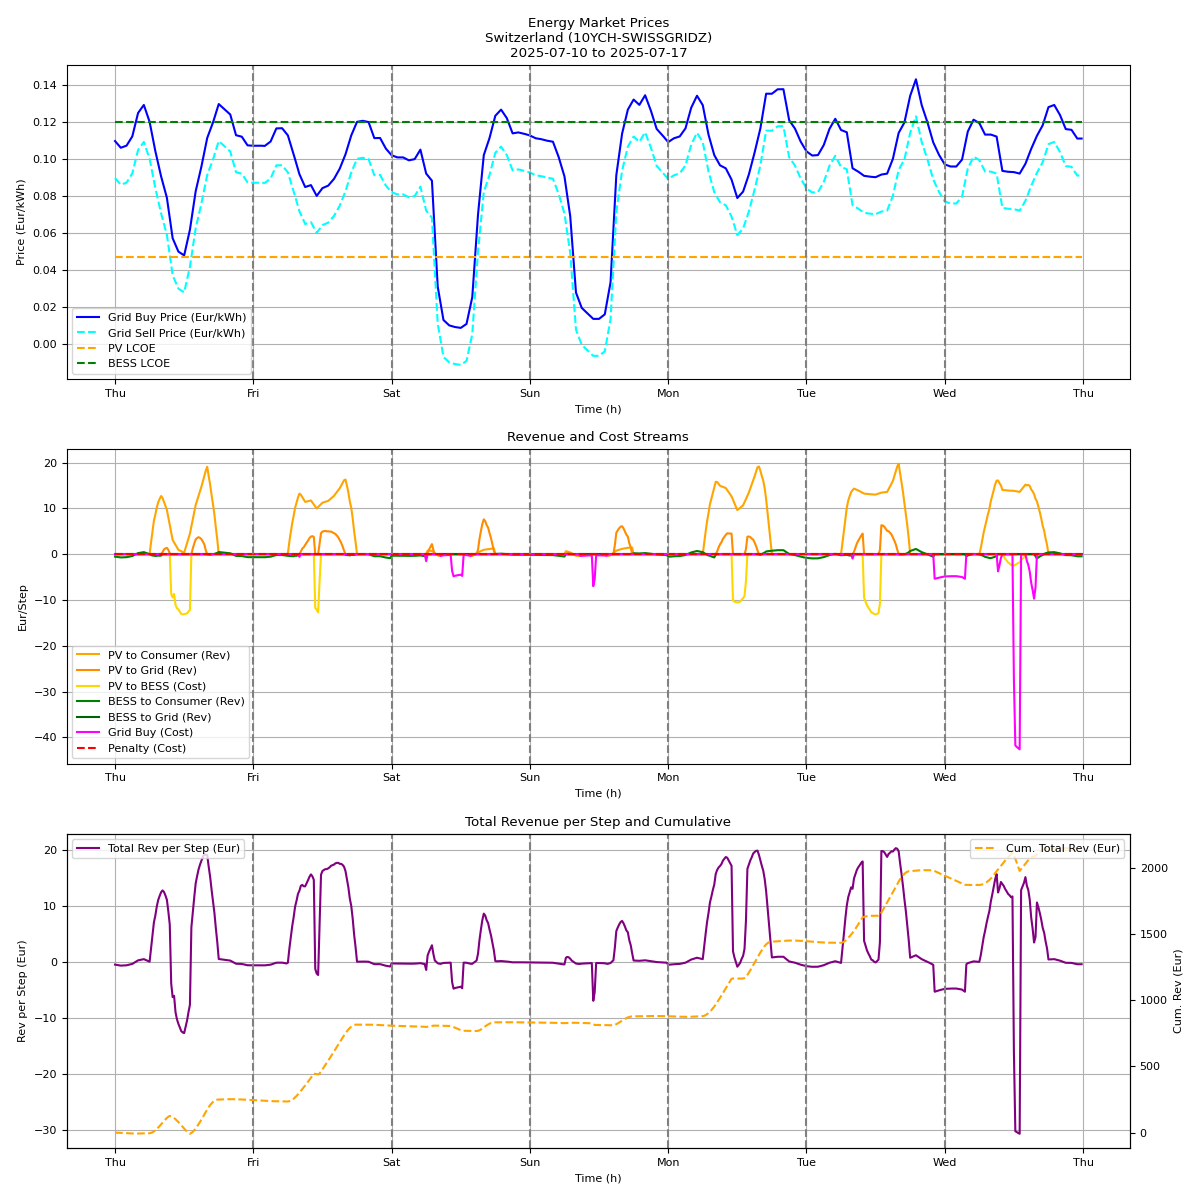
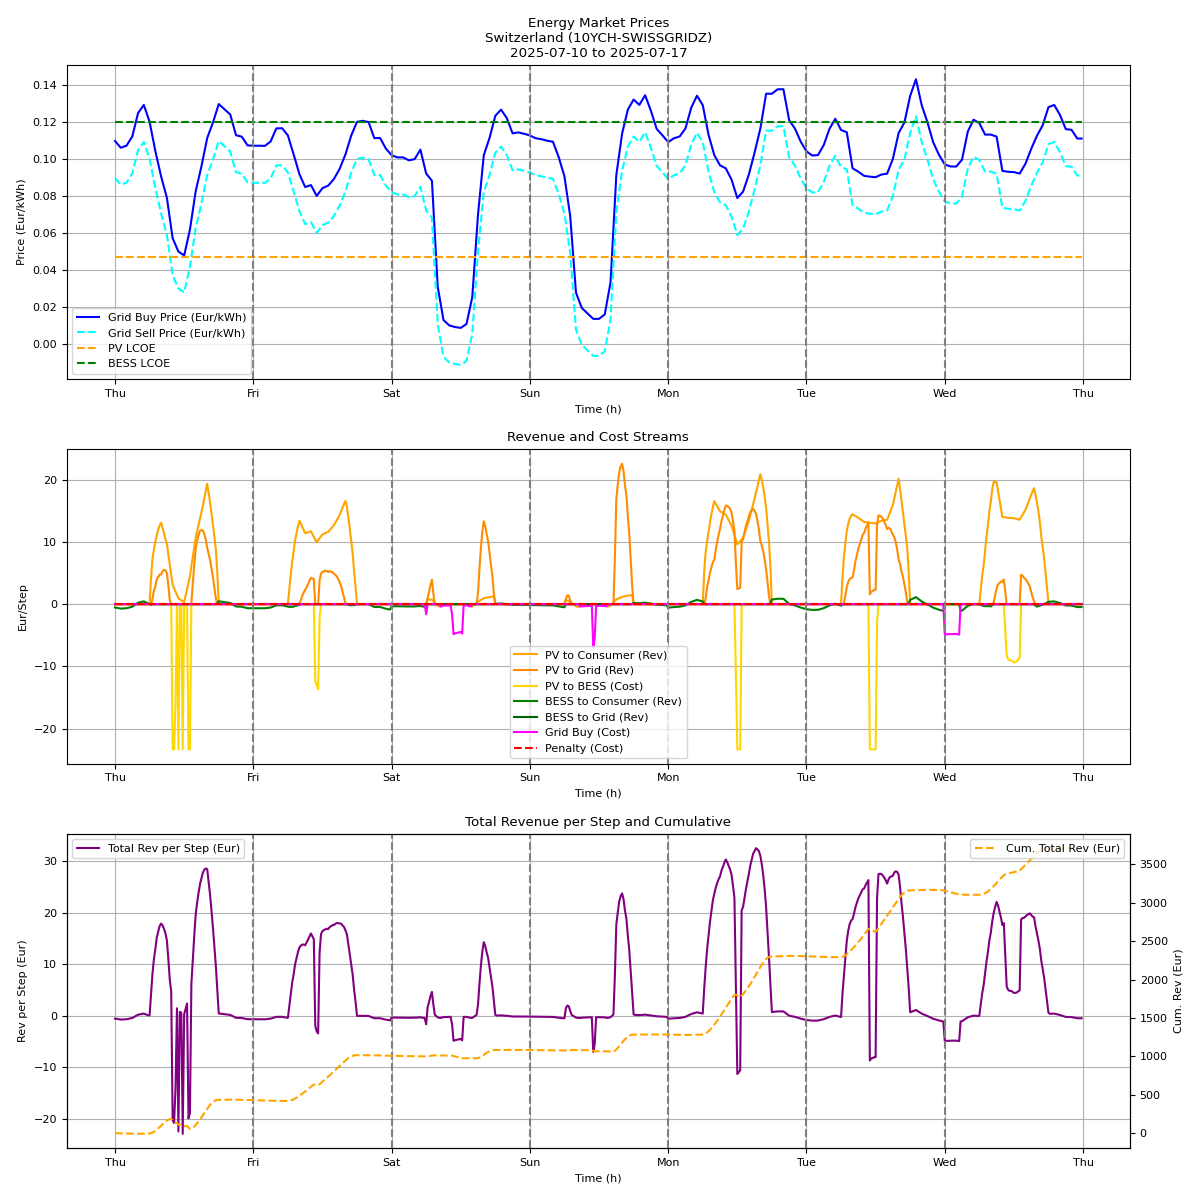
Minor Updates size PV

diff --git a/Computing Files/Optimization_GURBI_API.py b/Computing Files/Optimization_GURBI_API.py
@@ -147,6 +147,7 @@ def load_data():
     grid_sell_price = grid_price - 0.01  # Subtracting margin for sell price
 
     # Generating sample PV power profile: Sinusoidal daytime generation over 7 days with variations
+    plant_size = 4000
     pv_power = np.zeros(n_steps)  # Initializing zero array for PV power (672 steps)
     multipliers = [1.0, 0.9, 0.5, 0.8, 1.0, 0.6, 1.0]  # Day-specific weather multipliers
     random.shuffle(multipliers)  # Randomly shuffling multipliers for realism
@@ -154,7 +155,7 @@ def load_data():
         local_t = t % 24  # Local time within day (0-23.75)
         day = int(t // 24)  # Day index (0-6)
         if 6 <= local_t <= 18:  # Daytime hours for PV generation
-            amplitude = 2327 * multipliers[day]  # Scaling amplitude by multiplier
+            amplitude = plant_size * multipliers[day]  # Scaling amplitude by multiplier
             # Sinusoidal generation with noise
             pv_power[i] = amplitude * np.sin(np.pi * (local_t - 6) / 12) + np.random.normal(0, 10)
         pv_power[i] = max(0, pv_power[i])  # Ensuring non-negative power
@@ -240,7 +241,7 @@ constraints += [SOC[0] == soc_initial]  # Initial SOC
 constraints += [SOC[t+1] == SOC[t] + eta_charge * (P_PV_BESS[t] + P_grid_BESS[t]) * delta_t -
                 (P_BESS_consumer[t] + P_BESS_grid[t]) / eta_discharge * delta_t for t in range(n_steps)]
 constraints += [SOC[t] <= bess_capacity for t in range(n_steps + 1)]  # Upper SOC bound
-constraints += [SOC[t] >= 0.05 * bess_capacity for t in range(n_steps + 1)]  # Lower SOC bound (5%)
+constraints += [SOC[t] >= 0.1 * bess_capacity for t in range(n_steps + 1)]  # Lower SOC bound (10%)
 
 # Ensuring final SOC >= initial for sustainability
 constraints += [SOC[n_steps] >= soc_initial]
